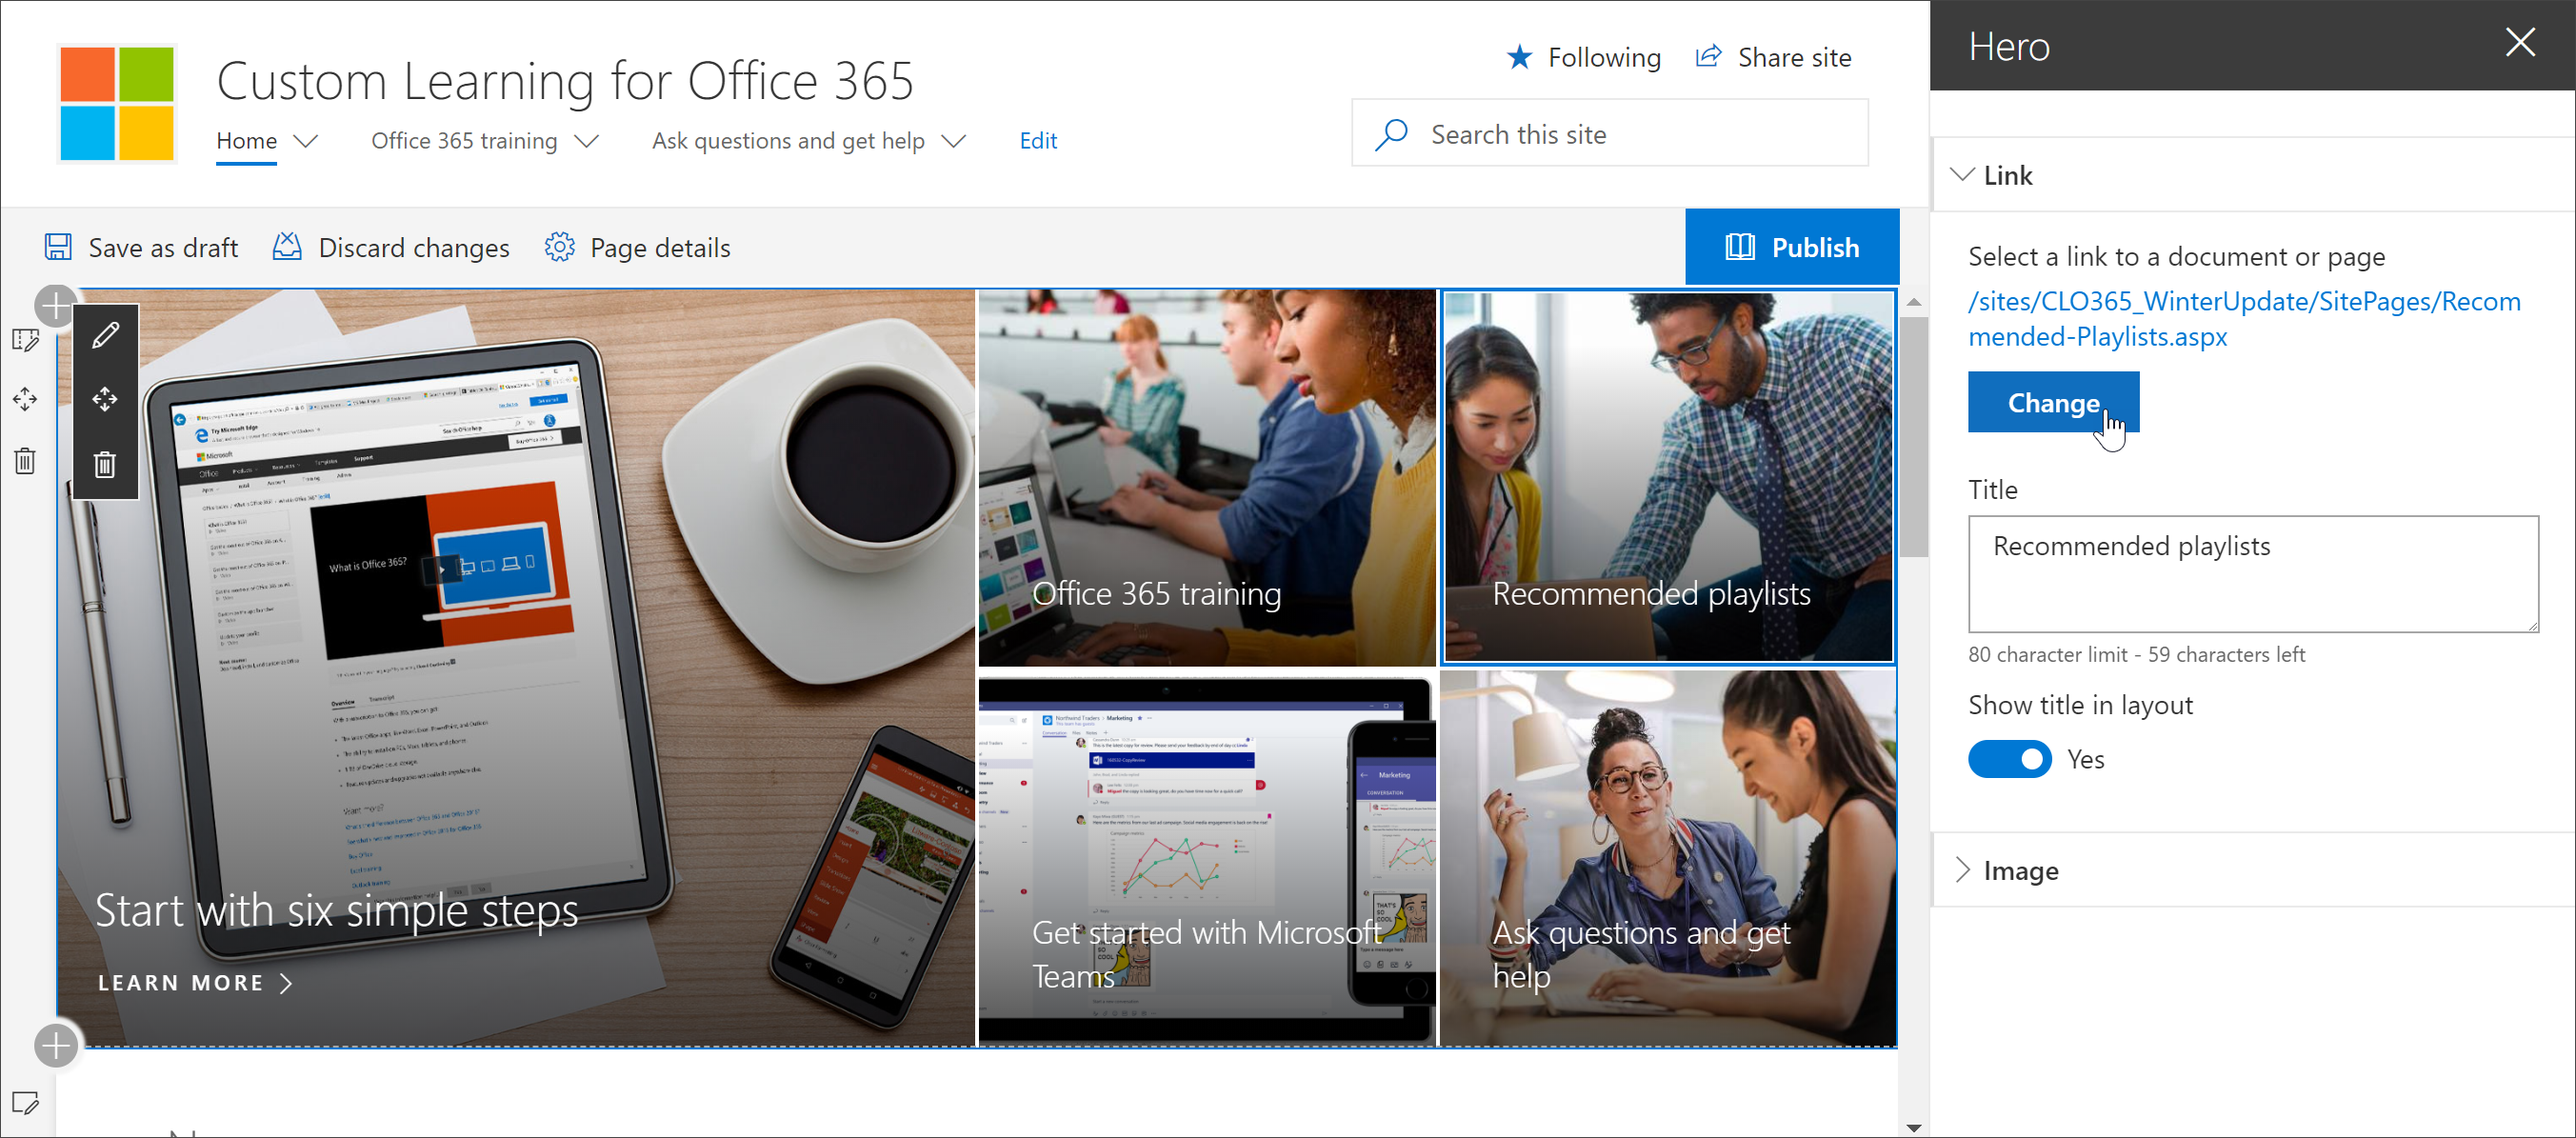
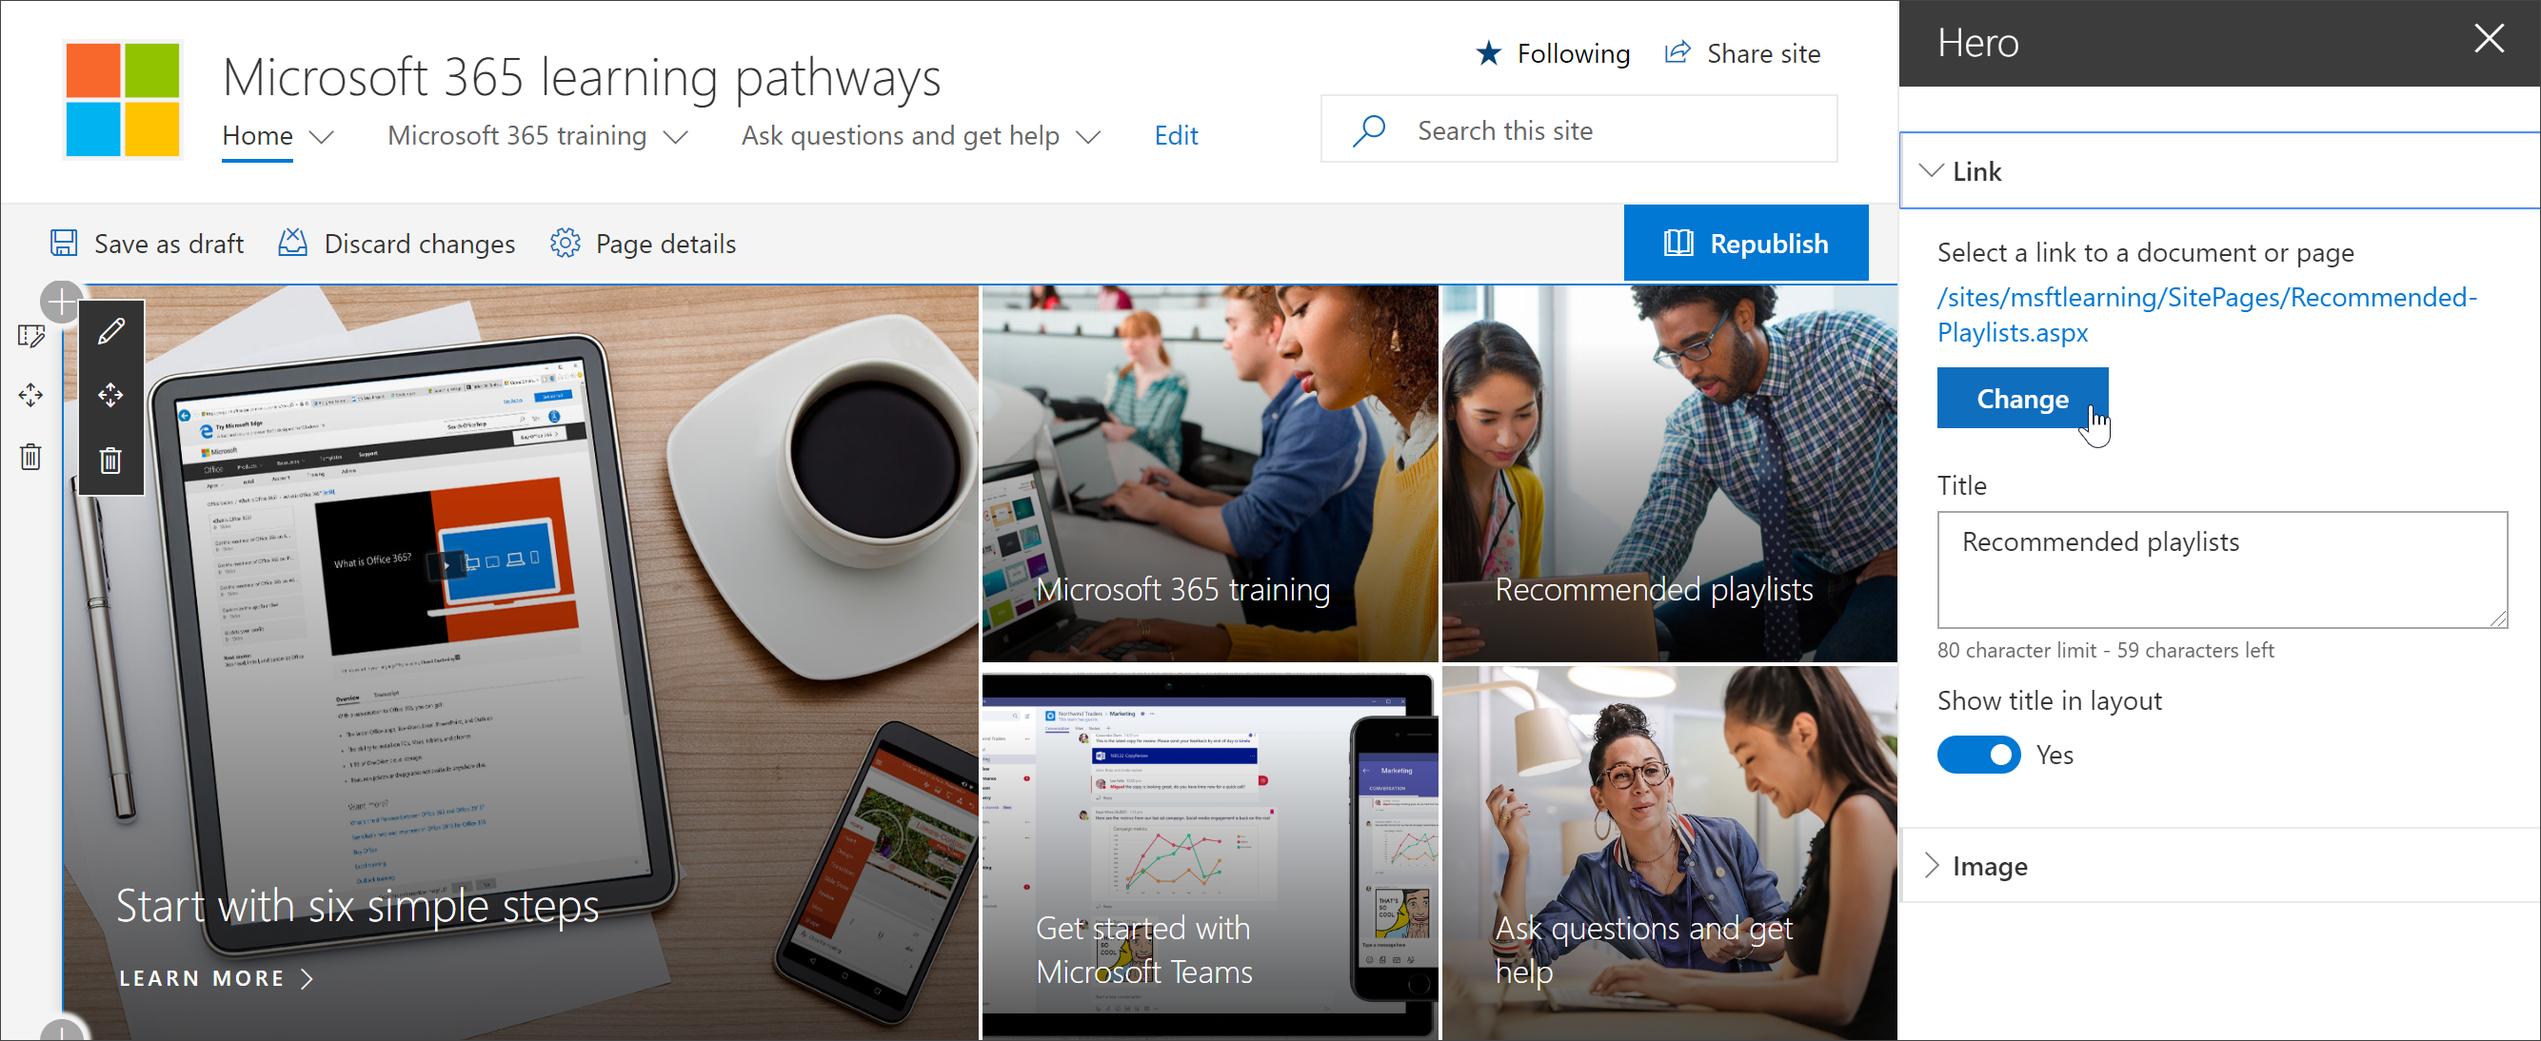
update m365

diff --git a/CustomLearning/custom_linking.md b/CustomLearning/custom_linking.md
@@ -1,21 +1,21 @@
 ---
 author: pkrebs
 ms.author: pkrebs
-title:  Linking to Custom Learning Assets
+title:  Linking to Microsoft 365 learning pathways assets
 ms.date: 02/15/2019
-description: How to link to Custom Learning Assets
+description: How to link to Microsoft 365 learning pathways assets
 ---
 
-# Link to Custom Learning content
+# Link to learning pathways content
 
-With Custom Learning, there are two ways to link to content:
+With learning pathways, there are two ways to link to content:
 
 - Link to the page that host the Web part filtered for the content you want to display. 
 - Link directly to an instance of the Web part
 
 ## Link to a page
 
-If you've created new pages and learning experiences with the Custom Learning Web part, you can link to the page with the Web part configured to show the content you want to display. In the previous section, we covered how to display Excel playlists on a page. You could now edit the Home page to link to the page. 
+If you've created new pages and learning experiences with the Microsoft 365 learning pathways Web part, you can link to the page with the Web part configured to show the content you want to display. In the previous section, we covered how to display Excel playlists on a page. You could now edit the Home page to link to the page. 
 
 1. From the Home page, click **Edit**.
 2. Click **Edit details** in one of the Home page tiles. In this example, we edit the **Recommended playlists** tiles.
@@ -26,16 +26,16 @@ If you've created new pages and learning experiences with the Custom Learning We
 4. Click **Site**, then **Site Pages**, click the page you want to link to, and then click **Open**. In this example, we link to the **Create-your-own-experience.aspx** page covered in the previous section.
 5. Close the Hero properties pane, click **Publish**, and then test the link. 
 
-## Link to the Custom Learning web part
-Custom Learning gives you, the administrator, or an end-user, the ability to link to an instance of the Web part independent of the page that contains the Web part. You can share the copied link or link to it from other pages. The copied link, when clicked, shows the Custom Learning web part instance in the CustomLLearningViewer.aspx page. Let's look at an example. 
+## Link to the Microsoft 365 learning pathways web part
+Learning pathways gives you, the administrator, or an end-user, the ability to link to an instance of the Web part independent of the page that contains the Web part. You can share the copied link or link to it from other pages. The copied link, when clicked, shows the Microsoft 365 learning pathways web part instance in the CustomLLearningViewer.aspx page. Let's look at an example. 
 
-1. From the Home page, click **Office 365 training**.
+1. From the Home page, click **Microsoft365 training**.
 2. Click **Microsoft Teams**, and then click **Intro to Microsoft Teams**.
 3. Click the **Copy** icon.
 
 ![cg-linktowebpart.png](media/cg-linktowebpart.png)
 
-4. Click Home from the Custom Learning menu.
+4. Click Home from the Microsoft 365 learning pathways site menu.
 5. Paste the copied URL in the address bar of the browser and press ENTER. 
 
 As shown in the following illustration, the link goes to the CustomLearningViewer.aspx page and displays the content based on the parameters in the copied link. 
